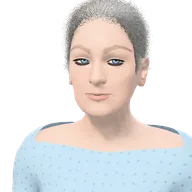
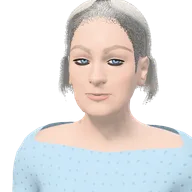
Draped bob hair on the 3D patients
A bob is now real hair falling to the jaw rather than a short cap: layered
curtains that follow the skull over the crown (a dome around the head's
centre, so the gap to the scalp is even), hang straight from the widest part
of the head, are longer at the front than at the nape, tuck under at the ends
and finish in ragged strand tips, with separate locks in the outer layers.
The head is sampled across its triangles so the hair never sinks into the
back of the head where the mesh is sparse. Portraits of the seven patients
with a bob are re-rendered.

Claude-Session: https://claude.ai/code/session_011R8hp8K7udNduj1uC8MD21

Changed region(s): [[0.2812, 0.0, 0.8438, 0.5312], [0.6875, 0.25, 0.7188, 0.2812]]

diff --git a/src/anatomy3d/hair.ts b/src/anatomy3d/hair.ts
@@ -7,7 +7,9 @@ import { computeNormals, type HumanModel } from './human'
  * Scalp hair as shells: layers of the scalp pushed out along the normal and
  * combed back/down, each layer cutting out tapering strands. It gives short
  * hair real volume and a soft, anatomical hairline (receding temples, crown
- * loss) for very little GPU work. Longer styles are worn tied back in a bun.
+ * loss) for very little GPU work. A bob adds a draped curtain that falls from
+ * the widest part of the head to the jaw; longer styles are worn tied back in
+ * a bun.
  */
 
 interface StyleSpec {
@@ -24,6 +26,8 @@ interface StyleSpec {
   /** how flat the hair lies (0 sticks out, 1 lies flat) */
   lie: number
   bun?: boolean
+  /** hair falling to the jaw around the sides and back */
+  drape?: boolean
 }
 
 const STYLES: Record<HairStyle, StyleSpec> = {
@@ -31,7 +35,7 @@ const STYLES: Record<HairStyle, StyleSpec> = {
   crop: { length: 0.075, line: 0.5, recede: 0.05, crown: 0, curl: 0.05, lie: 0.5 },
   receding: { length: 0.13, line: 0.5, recede: 0.75, crown: 0.35, curl: 0.05, lie: 0.7 },
   bald: { length: 0.07, line: 0.5, recede: 1, crown: 1, fringeOnly: true, curl: 0, lie: 0.6 },
-  bob: { length: 0.34, line: 0.49, recede: 0, crown: 0, curl: 0.15, lie: 0.85 },
+  bob: { length: 0.1, line: 0.49, recede: 0, crown: 0, curl: 0.1, lie: 0.9, drape: true },
   long: { length: 0.12, line: 0.49, recede: 0, crown: 0, curl: 0.05, lie: 0.92, bun: true },
   bun: { length: 0.11, line: 0.49, recede: 0, crown: 0, curl: 0.05, lie: 0.92, bun: true },
   curly: { length: 0.24, line: 0.5, recede: 0, crown: 0, curl: 1, lie: 0.35 },
@@ -216,6 +220,10 @@ export function createHair(h: HumanModel, base: HumanBase, a: Appearance): HairM
   mesh.bind(h.mesh.skeleton, h.mesh.bindMatrix)
   group.add(mesh)
 
+  // ---- a bob: layered hair hanging from the widest part of the head to the jaw
+  const drape = style.drape ? createDrape(h, base, colA, colB) : null
+  if (drape) group.add(drape.mesh)
+
   // ---- tied-back hair: a bun at the back of the head, riding on the head bone
   let bun: THREE.Mesh | null = null
   if (style.bun) {
@@ -260,11 +268,297 @@ export function createHair(h: HumanModel, base: HumanBase, a: Appearance): HairM
     dispose() {
       g.dispose()
       m.dispose()
+      drape?.dispose()
       if (bun) {
         bun.removeFromParent()
         bun.geometry.dispose()
         ;(bun.material as THREE.Material).dispose()
       }
+    },
+  }
+}
+
+/* ------------------------------------------------------------------ drape */
+
+const DRAPE_LAYERS = 4
+
+const DRAPE_VERT = /* glsl */ `
+attribute vec2 aHUv;
+attribute float aHLayer;
+varying vec2 vHUv;
+varying float vHLayer;
+`
+
+const DRAPE_FRAG_HEADER = /* glsl */ `
+uniform vec3 uHairA;
+uniform vec3 uHairB;
+varying vec2 vHUv;
+varying float vHLayer;
+float dr_hash( vec2 p ) { return fract( sin( dot( p, vec2( 127.1, 311.7 ) ) ) * 43758.5453 ); }
+`
+
+const DRAPE_STRANDS = /* glsl */ `
+  // strands run down the curtain: u around the head, v from the crown to the ends
+  float s = vHUv.x * 520.0 + sin( vHUv.y * 9.0 + vHUv.x * 40.0 ) * 0.6;
+  vec2 cell = vec2( floor( s ), 0.0 );
+  float fx = fract( s ) - 0.5;
+  float rnd = dr_hash( cell );
+  // ragged ends: each strand stops at its own length, outer layers a little shorter
+  float end = 1.0 - 0.1 * dr_hash( cell + 2.3 ) - 0.04 * vHLayer;
+  if ( vHUv.y > end ) discard;
+  // outer layers: separate locks rather than a sheet
+  if ( vHLayer > 0.1 ) {
+    float lock = dr_hash( vec2( floor( s * 0.45 ), vHLayer * 17.0 ) );
+    if ( lock > 0.8 - vHLayer * 0.3 || abs( fx ) > 0.42 ) discard;
+  }
+  // thin out at the edges that frame the face
+  float edge = min( vHUv.x, 1.0 - vHUv.x );
+  if ( edge < 0.03 * dr_hash( cell + 4.0 ) + 0.004 ) discard;
+  vec3 col = mix( uHairA, uHairB, 0.25 * rnd + 0.4 * smoothstep( 0.1, 1.0, vHUv.y ) );
+  col *= 0.9 + 0.16 * dr_hash( cell + 9.0 );
+  col *= 0.94 + 0.06 * cos( fx * 6.2832 );
+  // inner layers and the roots sit in the shade of the hair over them
+  col *= mix( 0.5, 1.0, clamp( vHLayer * 0.7 + 0.3, 0.0, 1.0 ) ) * mix( 0.7, 1.0, smoothstep( 0.0, 0.25, vHUv.y ) );
+  diffuseColor.rgb = col;
+`
+
+/**
+ * A draped bob: a curtain of hair that hangs from the widest part of the head
+ * (it can't go in under it), sweeps a little forward to frame the jaw, tucks
+ * under at the ends and is longer at the front than at the nape. Its radius
+ * comes from the patient's own head, sampled around a vertical axis.
+ */
+function createDrape(h: HumanModel, base: HumanBase, colA: string, colB: string) {
+  const P = h.positions
+  const NC = base.meta.compactCount
+  const eyeY = h.rest.head.head.y + h.eyes.left.position.y
+  const lm = base.meta.landmarks as Record<string, number>
+  const chinY = P[lm.chin * 3 + 1]
+  const topY = P[lm.vertex * 3 + 1] - 0.02
+  // the head's vertical axis: centred between forehead and occiput at brow height
+  let zMin = Infinity
+  let zMax = -Infinity
+  for (let c = 0; c < NC; c++) {
+    const y = P[c * 3 + 1]
+    if (y > eyeY && y < eyeY + 0.5 && Math.abs(P[c * 3]) < 0.3) {
+      zMin = Math.min(zMin, P[c * 3 + 2])
+      zMax = Math.max(zMax, P[c * 3 + 2])
+    }
+  }
+  const cz = (zMin + zMax) / 2 - 0.1
+  // points spread over the skin of the head and neck (vertices alone leave gaps between them)
+  const samples: number[] = []
+  {
+    const part = base.meta.parts.find((q) => q.name === 'body')!
+    const r2c = base.renderToCompact
+    const N = 4
+    for (let i = part.start; i < part.start + part.count; i += 3) {
+      const a = r2c[base.index[i]] * 3
+      const b = r2c[base.index[i + 1]] * 3
+      const c = r2c[base.index[i + 2]] * 3
+      if (Math.min(P[a + 1], P[b + 1], P[c + 1]) < chinY - 0.7) continue
+      for (let s1 = 0; s1 <= N; s1++)
+        for (let s2 = 0; s2 <= N - s1; s2++) {
+          const w1 = s1 / N
+          const w2 = s2 / N
+          const w0 = 1 - w1 - w2
+          samples.push(P[a] * w0 + P[b] * w1 + P[c] * w2, P[a + 1] * w0 + P[b + 1] * w1 + P[c + 1] * w2, P[a + 2] * w0 + P[b + 2] * w1 + P[c + 2] * w2)
+        }
+    }
+  }
+  const NS = samples.length / 3
+  // the front hairline: the lowest point of the scalp field's hair-bearing skin over the forehead
+  let hairFrontY = eyeY + 0.6
+  for (let c = 0; c < NC; c++)
+    if (base.scalp[c] / 255 >= 0.5 && Math.abs(P[c * 3]) < 0.2 && P[c * 3 + 2] > cz + 0.3) hairFrontY = Math.min(hairFrontY, P[c * 3 + 1])
+  // skin radius around the axis, binned by angle and height (head, ears and neck)
+  const NA = 96
+  const y0 = chinY - 0.6
+  const dy = 0.04
+  const NY = Math.ceil((topY + 0.4 - y0) / dy)
+  const R = new Float32Array(NA * NY).fill(0)
+  for (let q = 0; q < NS; q++) {
+    const x = samples[q * 3]
+    const y = samples[q * 3 + 1]
+    const z = samples[q * 3 + 2] - cz
+    if (y < y0 || y >= y0 + NY * dy) continue
+    const r = Math.hypot(x, z)
+    if (r > 1.6) continue
+    const a = Math.floor(((Math.atan2(x, z) + Math.PI) / (Math.PI * 2)) * NA) % NA
+    const j = Math.floor((y - y0) / dy)
+    R[j * NA + a] = Math.max(R[j * NA + a], r)
+  }
+  // fill any empty cells from their neighbours round the head, then from the row above,
+  // then let hair fall: at each height it's at least as wide as anywhere above
+  const dilate = (M: Float32Array, rows: number) => {
+    for (let pass = 0; pass < 6; pass++)
+      for (let j = 0; j < rows; j++)
+        for (let a = 0; a < NA; a++)
+          if (!M[j * NA + a]) M[j * NA + a] = Math.max(M[j * NA + ((a + 1) % NA)], M[j * NA + ((a + NA - 1) % NA)])
+  }
+  dilate(R, NY)
+  for (let j = NY - 2; j >= 0; j--)
+    for (let a = 0; a < NA; a++) if (!R[j * NA + a]) R[j * NA + a] = R[(j + 1) * NA + a] * 0.98
+  for (let j = NY - 2; j >= 0; j--) for (let a = 0; a < NA; a++) R[j * NA + a] = Math.max(R[j * NA + a], R[(j + 1) * NA + a])
+  // soften around the head so the curtain has no facets
+  const tmp = new Float32Array(R.length)
+  for (let pass = 0; pass < 4; pass++) {
+    for (let j = 0; j < NY; j++)
+      for (let a = 0; a < NA; a++) tmp[j * NA + a] = (R[j * NA + ((a + NA - 1) % NA)] + 2 * R[j * NA + a] + R[j * NA + ((a + 1) % NA)]) / 4
+    R.set(tmp)
+  }
+  const radiusAt = (ang: number, y: number) => {
+    const a = (((ang + Math.PI) / (Math.PI * 2)) * NA + NA) % NA
+    const j = THREE.MathUtils.clamp((y - y0) / dy, 0, NY - 1.001)
+    const a0 = Math.floor(a)
+    const j0 = Math.floor(j)
+    const fa = a - a0
+    const fj = j - j0
+    const g = (aa: number, jj: number) => R[jj * NA + (aa % NA)]
+    return (g(a0, j0) * (1 - fa) + g(a0 + 1, j0) * fa) * (1 - fj) + (g(a0, j0 + 1) * (1 - fa) + g(a0 + 1, j0 + 1) * fa) * fj
+  }
+
+  // over the top of the head the hair follows the skull: a dome around a centre point, so the gap to the
+  // scalp is even all over the crown (a horizontal offset alone would let the scalp hair poke through)
+  const cy = eyeY + 0.35
+  const C = new THREE.Vector3(0, cy, cz)
+  const NE = 24
+  const elMin = -0.2
+  const D = new Float32Array(NA * NE).fill(0)
+  for (let q = 0; q < NS; q++) {
+    const x = samples[q * 3]
+    const y = samples[q * 3 + 1] - cy
+    const z = samples[q * 3 + 2] - cz
+    if (y < -0.4) continue
+    const hr = Math.hypot(x, z)
+    if (hr > 1.6) continue
+    const el = Math.atan2(y, hr)
+    if (el < elMin) continue
+    const a = Math.floor(((Math.atan2(x, z) + Math.PI) / (Math.PI * 2)) * NA) % NA
+    const e = Math.min(NE - 1, Math.floor(((el - elMin) / (Math.PI / 2 - elMin)) * NE))
+    D[e * NA + a] = Math.max(D[e * NA + a], Math.hypot(hr, y))
+  }
+  dilate(D, NE)
+  for (let e = 1; e < NE; e++) for (let a = 0; a < NA; a++) if (!D[e * NA + a]) D[e * NA + a] = D[(e - 1) * NA + a]
+  for (let pass = 0; pass < 4; pass++) {
+    const t2 = new Float32Array(D.length)
+    for (let e = 0; e < NE; e++)
+      for (let a = 0; a < NA; a++) {
+        const up = D[Math.min(NE - 1, e + 1) * NA + a]
+        const dn = D[Math.max(0, e - 1) * NA + a]
+        t2[e * NA + a] = (D[e * NA + ((a + NA - 1) % NA)] + D[e * NA + ((a + 1) % NA)] + up + dn + 4 * D[e * NA + a]) / 8
+      }
+    D.set(t2)
+  }
+  const domeAt = (ang: number, el: number) => {
+    const a = (((ang + Math.PI) / (Math.PI * 2)) * NA + NA) % NA
+    const e = THREE.MathUtils.clamp(((el - elMin) / (Math.PI / 2 - elMin)) * NE - 0.5, 0, NE - 1.001)
+    const a0 = Math.floor(a)
+    const e0 = Math.floor(e)
+    const fa = a - a0
+    const fe = e - e0
+    const g = (aa: number, ee: number) => D[ee * NA + (aa % NA)]
+    return (g(a0, e0) * (1 - fa) + g(a0 + 1, e0) * fa) * (1 - fe) + (g(a0, e0 + 1) * (1 - fa) + g(a0 + 1, e0 + 1) * fa) * fe
+  }
+
+  const NU = 72
+  const NV = 34
+  const SPLIT = 0.48
+  const count = (NU + 1) * (NV + 1) * DRAPE_LAYERS
+  const pos = new Float32Array(count * 3)
+  const uv = new Float32Array(count * 2)
+  const lay = new Float32Array(count)
+  const deg = THREE.MathUtils.degToRad
+  const dir = new THREE.Vector3()
+  let k = 0
+  for (let L = 0; L < DRAPE_LAYERS; L++)
+    for (let jv = 0; jv <= NV; jv++)
+      for (let iu = 0; iu <= NU; iu++) {
+        const u = iu / NU
+        const v = jv / NV
+        // falls from the crown (a centre parting at the front), clears the face below the hairline by
+        // going back past the temples in front of the ears, then sweeps a little forward to frame the jaw
+        const yGuess = v < SPLIT ? cy + Math.sin((1 - v / SPLIT) * Math.PI / 2) * 0.95 : cy + (chinY - cy) * ((v - SPLIT) / (1 - SPLIT))
+        const clear = 1 - THREE.MathUtils.smoothstep(yGuess, hairFrontY - 0.1, hairFrontY + 0.4)
+        const front = deg(9 + 75 * clear - 20 * THREE.MathUtils.smoothstep(v, 0.7, 1))
+        const ang = front + u * (Math.PI * 2 - 2 * front)
+        // outer layers meet the inner one at the crown, so no layer shows a top edge
+        const layerOff = L * 0.022 * THREE.MathUtils.smoothstep(v, 0.05, 0.5)
+        if (v < SPLIT) {
+          const el = (Math.PI / 2) * (1 - v / SPLIT)
+          dir.set(Math.sin(ang) * Math.cos(el), Math.sin(el), Math.cos(ang) * Math.cos(el))
+          const d = domeAt(ang, el) + 0.075 + layerOff
+          pos.set([C.x + dir.x * d, C.y + dir.y * d, C.z + dir.z * d], k * 3)
+        } else {
+          const w = (v - SPLIT) / (1 - SPLIT)
+          const back = (1 - Math.cos(ang)) / 2
+          const bottomY = chinY + 0.02 + 0.3 * back
+          const y = cy + (bottomY - cy) * w
+          // hangs straight from the widest part of the head, fuller towards the ends, tucked under at the tips
+          const skin = Math.max(radiusAt(ang, y), domeAt(ang, 0))
+          let r = skin + 0.075 + 0.1 * w * w + layerOff
+          r -= 0.1 * THREE.MathUtils.smoothstep(w, 0.8, 1)
+          r = Math.max(r, radiusAt(ang, y) + 0.03 + L * 0.02)
+          pos.set([Math.sin(ang) * r, y, cz + Math.cos(ang) * r], k * 3)
+        }
+        uv.set([u, v], k * 2)
+        lay[k] = L / (DRAPE_LAYERS - 1)
+        k++
+      }
+  const index: number[] = []
+  const row = NU + 1
+  for (let L = 0; L < DRAPE_LAYERS; L++) {
+    const o = L * row * (NV + 1)
+    for (let jv = 0; jv < NV; jv++)
+      for (let iu = 0; iu < NU; iu++) {
+        const a = o + jv * row + iu
+        index.push(a, a + row, a + 1, a + 1, a + row, a + row + 1)
+      }
+  }
+  // it all rides on the head
+  const headIndex = base.meta.bones.indexOf('head')
+  const skinIndex = new Uint16Array(count * 4)
+  const skinWeight = new Float32Array(count * 4)
+  for (let i = 0; i < count; i++) {
+    skinIndex[i * 4] = headIndex
+    skinWeight[i * 4] = 1
+  }
+  const g = new THREE.BufferGeometry()
+  g.setAttribute('position', new THREE.BufferAttribute(pos, 3))
+  g.setAttribute('aHUv', new THREE.BufferAttribute(uv, 2))
+  g.setAttribute('aHLayer', new THREE.BufferAttribute(lay, 1))
+  g.setAttribute('skinIndex', new THREE.Uint16BufferAttribute(skinIndex, 4))
+  g.setAttribute('skinWeight', new THREE.Float32BufferAttribute(skinWeight, 4))
+  g.setIndex(index)
+  g.computeVertexNormals()
+  const m = new THREE.MeshPhysicalMaterial({
+    name: 'hair-drape',
+    color: '#ffffff',
+    roughness: 0.62,
+    sheen: 0.55,
+    sheenRoughness: 0.45,
+    sheenColor: new THREE.Color(colB),
+    side: THREE.DoubleSide,
+    alphaToCoverage: true,
+  })
+  const uniforms = { uHairA: { value: new THREE.Color(colA) }, uHairB: { value: new THREE.Color(colB) } }
+  m.onBeforeCompile = (shader) => {
+    Object.assign(shader.uniforms, uniforms)
+    shader.vertexShader = shader.vertexShader.replace('#include <common>', `#include <common>\n${DRAPE_VERT}`).replace('#include <begin_vertex>', '#include <begin_vertex>\nvHUv = aHUv; vHLayer = aHLayer;')
+    shader.fragmentShader = shader.fragmentShader.replace('#include <common>', `#include <common>\n${DRAPE_FRAG_HEADER}`).replace('#include <map_fragment>', DRAPE_STRANDS)
+  }
+  m.customProgramCacheKey = () => 'bedside-hair-drape-v1'
+  const mesh = new THREE.SkinnedMesh(g, m)
+  mesh.name = 'hair-drape'
+  mesh.castShadow = true
+  mesh.receiveShadow = true
+  mesh.frustumCulled = false
+  mesh.bind(h.mesh.skeleton, h.mesh.bindMatrix)
+  return {
+    mesh,
+    dispose() {
+      g.dispose()
+      m.dispose()
     },
   }
 }
